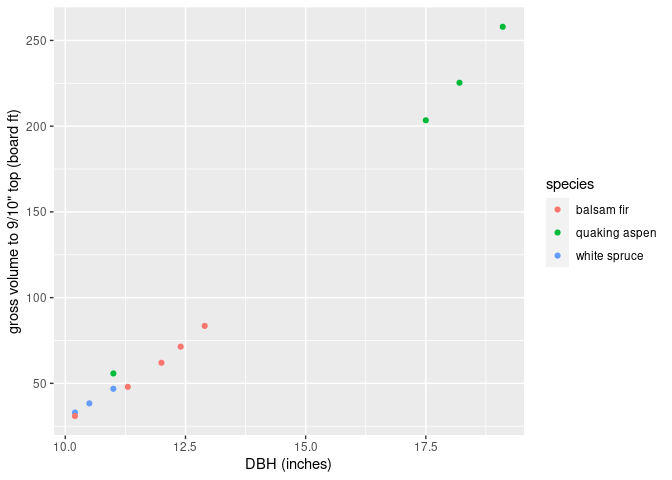
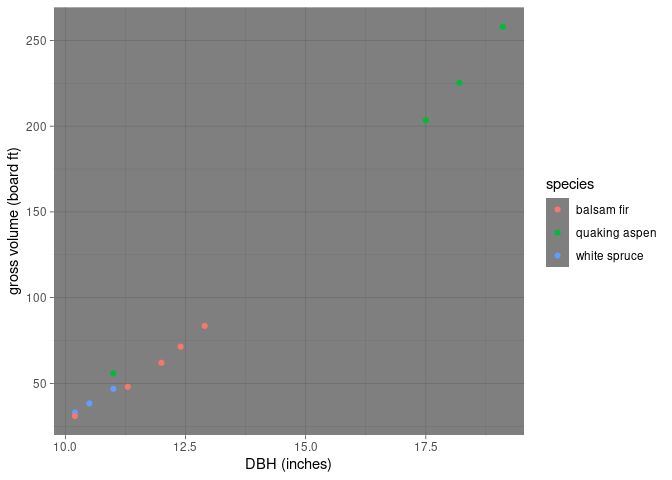
fill out more examples in README

diff --git a/README.md b/README.md
@@ -12,12 +12,20 @@ volume, and biomass estimates using the equations and coefficients from
 USFS Research Paper NC-250: Tree volume and biomass equations for the
 Lake States.
 
-Hahn, Jerold T. 1984. Tree volume and biomass equations for the Lake
-States. Research Paper NC-250. St. Paul, MN: U.S. Dept. of Agriculture,
-Forest Service, North Central Forest Experiment Station
+Citation for publication: Hahn, Jerold T. 1984. Tree volume and biomass
+equations for the Lake States. Research Paper NC-250. St. Paul, MN: U.S.
+Dept. of Agriculture, Forest Service, North Central Forest Experiment
+Station
 
 The original publication can be accessed from the
 [USFS](https://www.fs.usda.gov/treesearch/pubs/10037).
+
+The equations and species-specific coefficients were copied out of the
+PDF version of the publication by Henry Rodman in January 2021. The
+tables are [stored in csv format](inst/csv/) in the R package. The
+functions for estimating height, volume, and biomass have been
+[tested](tests/testthat/test-eq.R) to align with the examples provided
+in the original publication.
 
 ## Installation
 
@@ -27,7 +35,7 @@ You can install the released version of rpnc250 from Github with:
 remotes::install_github("SilviaTerra/rpnc250")
 ```
 
-## Example
+## Examples
 
 Here are some examples to show a few ways to work with the functions:
 
@@ -58,7 +66,8 @@ tibble::glimpse(test_trees)
 
 The height equation includes stand basal area as a covariate, so we can
 summarize FIA plot-level (four subplots combined) basal area to use for
-that purpose.
+that purpose. For simplicity, we will assume that site index is constant
+for all of the plot locations.
 
 ``` r
 # summarize plot-level basal area
@@ -75,17 +84,9 @@ plot_ba <- test_trees %>%
     bapa = sum(tpa_unadj * 0.005454 * dbh^2),
     .groups = "drop"
   )
-```
 
-### Cubic feet
-
-We can summarize total merchantable volume up to 4" top very easily.
-First we can join the plot-level basal area table to the tree table,
-then we can estimate height to 4" top for each stem, and finally we can
-estimate stem-level volumes.
-
-``` r
-merch_cuft_4 <- test_trees %>%
+# filter the trees and join to plot basal area table
+trees_prepped <- test_trees %>%
   dplyr::filter(
     !is.na(dbh),
     statuscd == 1, # only live trees
@@ -94,7 +95,57 @@ merch_cuft_4 <- test_trees %>%
   dplyr::left_join(
     plot_ba,
     by = "plt_cn"
-  ) %>%
+  )
+```
+
+### Merchantable height
+
+The height equation in the publication generates estimates of height to
+a given top diameter (outside bark) provided species, DBH (inches), site
+index, and stand basal area.
+
+To estimate height to 4" top we can apply the function
+`estimate_height`:
+
+``` r
+# clone prepped tree dataframe
+ht_trees <- trees_prepped
+
+ht_trees$height_4 <- estimate_height(
+  spcd = ht_trees$spcd,
+  dbh = ht_trees$dbh,
+  site_index = 65,
+  top_dob = 4,
+  stand_basal_area = ht_trees$bapa
+)
+```
+
+It is also possible to use the functions within `dplyr::mutate` calls
+which facilitates clean data wrangling workflows.
+
+``` r
+
+ht_trees <- trees_prepped %>%
+  dplyr::mutate(
+    height_4 = estimate_height(
+      spcd = spcd,
+      dbh = dbh,
+      site_index = 65,
+      top_dob = 4,
+      stand_basal_area = bapa
+    )
+  )
+```
+
+### Cubic feet
+
+We can summarize total merchantable volume up to 4" top very easily.
+First, join the plot-level basal area table to the tree table, then
+estimate height to 4" top for each stem. Using those estimates as inputs
+to the volume equations we can estimate stem-level volumes.
+
+``` r
+merch_cuft_4 <- trees_prepped %>%
   dplyr::mutate(
     height_4 = estimate_height(
       spcd = spcd,
@@ -111,9 +162,14 @@ merch_cuft_4 <- test_trees %>%
     )
   )
 
+# plot relationship between diameter and gross volume
 merch_cuft_4 %>%
   ggplot2::ggplot(
-    ggplot2::aes(x = dbh, y = gross_cuft_vol, color = common_name)
+    ggplot2::aes(
+      x = dbh,
+      y = gross_cuft_vol,
+      color = common_name
+    )
   ) +
   ggplot2::geom_point() +
   ggplot2::labs(
@@ -130,7 +186,8 @@ merch_cuft_4 %>%
 
 To get merchantable volume in board feet (Int’l 1/4) we can set the
 merchantable height to 9" for softwood trees, and 10" for hardwood
-trees.
+trees. You and I both know that the large aspen are probably not
+destined for sawtimber products, but we can dream.
 
 ``` r
 # make table of spcd and hardwood/softwood assignment
@@ -143,16 +200,7 @@ spp_groups <- tidyFIA::ref_tables[["species"]] %>%
     )
   )
 
-merch_bdft <- test_trees %>%
-  dplyr::filter(
-    !is.na(dbh),
-    statuscd == 1, # only live trees
-    !is.na(tpa_unadj)
-  ) %>%
-  dplyr::left_join(
-    plot_ba,
-    by = "plt_cn"
-  ) %>%
+merch_bdft <- trees_prepped %>%
   dplyr::left_join(
     spp_groups,
     by = "spcd"
@@ -184,12 +232,16 @@ merch_bdft <- test_trees %>%
 
 merch_bdft %>%
   ggplot2::ggplot(
-    ggplot2::aes(x = dbh, y = gross_bdft_vol, color = common_name)
+    ggplot2::aes(
+      x = dbh,
+      y = gross_bdft_vol,
+      color = common_name
+    )
   ) +
   ggplot2::geom_point() +
   ggplot2::labs(
     x = "DBH (inches)",
-    y = "gross volume to 9/10\" top (board ft)",
+    y = "gross volume (board ft)",
     color = "species"
   )
 ```
@@ -198,23 +250,38 @@ merch_bdft %>%
 
 ### Biomass
 
+The publication outlines a process for obtaining estimates of green tons
+of biomass. This method differs from the methods used by FIA so keep
+that in mind if you are attempting to immitate the FIA methodology. The
+[FIA methods](https://www.nrs.fs.fed.us/pubs/39555) use the gross cubic
+foot volume equations and coefficients from this publication but use a
+different process for converting the bole volume estimate into biomass.
+
 ``` r
-trees_with_biomass <- test_trees %>%
-  dplyr::filter(!is.na(dbh)) %>%
+trees_with_biomass <- trees_prepped %>%
   dplyr::mutate(
     biomass = estimate_biomass(
       spcd = spcd,
       dbh = dbh,
       site_index = 65,
-      stand_basal_area = 75
+      stand_basal_area = bapa
     )
   )
 
 trees_with_biomass %>%
   ggplot2::ggplot(
-    ggplot2::aes(x = dbh, y = biomass, color = common_name)
+    ggplot2::aes(
+      x = dbh,
+      y = biomass,
+      color = common_name
+    )
   ) +
-  ggplot2::geom_point()
+  ggplot2::geom_point() +
+  ggplot2::labs(
+    x = "DBH (inches)",
+    y = "biomass (green tons)",
+    color = "species"
+  )
 ```
 
 <img src="man/figures/README-biomass-1.png" width="100%" />
